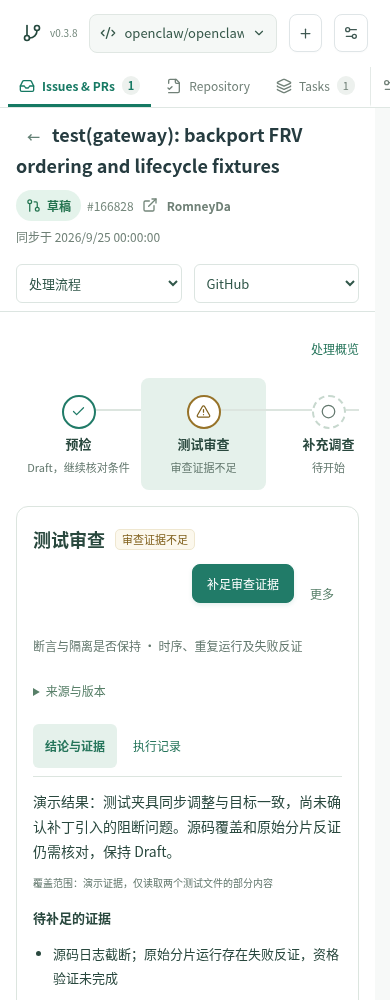
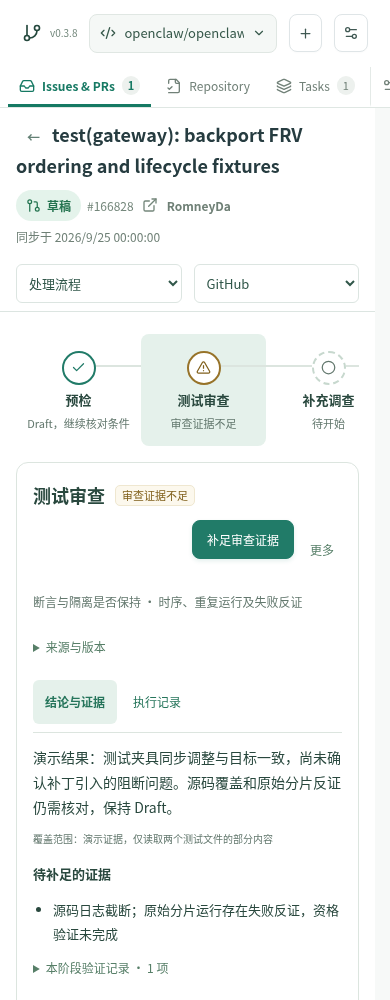
fix: replace standalone overview with stage evidence

diff --git a/src/client/App.tsx b/src/client/App.tsx
@@ -1678,6 +1678,7 @@ export function App({
         audit={state?.audit}
         render={renderStage}
         track={renderTrack}
+        evidence={renderLinkedEvidence}
         actions={renderWorkflowActions}
       />
     );
@@ -1715,103 +1716,6 @@ export function App({
     const job = selectedJob;
     if (!displayedIssue) return null;
     const history = jobs.filter((j) => j.issueId === displayedIssue.id);
-    if (stage === "overview") {
-      const saved =
-        job?.result ?? (readOnly ? undefined : displayedIssue.analysis);
-      const active =
-        !readOnly &&
-        history.find((j) => ["queued", "running"].includes(j.status));
-      return (
-        <section className="mw-item-overview">
-          {!readOnly && (
-            <ProcessingInput
-              issue={displayedIssue}
-              busy={!!busy}
-              act={(path, data, message) =>
-                action("workflow", path, data, message)
-              }
-            />
-          )}
-          <h3>
-            {active
-              ? `${kindNames[active.kind]}中`
-              : saved
-                ? "当前结论"
-                : "尚未分析"}
-          </h3>
-          {saved ? (
-            <>
-              <p>{saved.summary}</p>
-              <div className="mw-tags">
-                <span className="mw-tag">{saved.category}</span>
-                <span className="mw-tag">{saved.priority}</span>
-              </div>
-              {saved.missingInfo.length > 0 && (
-                <details>
-                  <summary>
-                    {displayedIssue.type === "pr" ? "审查覆盖缺口" : "信息缺口"}{" "}
-                    · {saved.missingInfo.length}
-                  </summary>
-                  <ul>
-                    {saved.missingInfo.map((text) => (
-                      <li key={text}>{text}</li>
-                    ))}
-                  </ul>
-                </details>
-              )}
-            </>
-          ) : (
-            <p>选择上方操作开始分析。</p>
-          )}
-          {job?.error && (
-            <p role="alert">
-              {job.status === "waiting_environment"
-                ? "等待环境准备"
-                : "最近一次任务失败"}
-              ：{job.error}。已保存的结论仍可查看。
-            </p>
-          )}
-          {displayedIssue.type === "issue" &&
-            displayedIssue.analysis?.category === "question" && (
-              <button
-                className="mw-text-button"
-                onClick={() =>
-                  setReaderRequest({
-                    sequence: Date.now(),
-                    issueId: displayedIssue.id,
-                    tab: "plan",
-                  })
-                }
-              >
-                调整事项类型
-              </button>
-            )}
-          {job && (
-            <button
-              className="mw-text-button"
-              onClick={() => openEvidenceJob(job.id, "log")}
-            >
-              查看执行记录
-            </button>
-          )}
-          {job && !["triage", "preflight"].includes(job.kind) && (
-            <details className="mw-overview-evidence">
-              <summary>关联验证与交付证据</summary>
-              <ReviewSummary
-                compact
-                job={job}
-                jobs={jobs}
-                issue={displayedIssue}
-                audit={state?.audit ?? []}
-                native={!!state?.capabilities.harness}
-                open={openEvidenceJob}
-                openSession={openSession}
-              />
-            </details>
-          )}
-        </section>
-      );
-    }
     if (stage === "plan")
       return readOnly ? (
         <p>
@@ -1891,6 +1795,12 @@ export function App({
           </details>
           {job ? (
             <>
+              <button
+                className="mw-text-button"
+                onClick={() => openEvidenceJob(job.id, "log")}
+              >
+                查看执行记录
+              </button>
               {job.error && <p role="alert">{job.error}</p>}
               {job.result && <p>{job.result.summary}</p>}
               {job.sessionId && openSession && (
@@ -2035,6 +1945,30 @@ export function App({
     return null;
   }
 
+  function renderLinkedEvidence(selectedJob?: typeof job) {
+    if (
+      !displayedIssue ||
+      !selectedJob ||
+      ["triage", "preflight"].includes(selectedJob.kind)
+    )
+      return null;
+    return (
+      <details className="mw-delivery-evidence">
+        <summary>关联验证与交付证据</summary>
+        <ReviewSummary
+          compact
+          job={selectedJob}
+          jobs={jobs}
+          issue={displayedIssue}
+          audit={state?.audit ?? []}
+          native={!!state?.capabilities.harness}
+          open={openEvidenceJob}
+          openSession={openSession}
+        />
+      </details>
+    );
+  }
+
   function renderTrack(
     selectedJob = job,
     readOnly = false,
@@ -2043,6 +1977,7 @@ export function App({
     if (!displayedIssue) return null;
     return (
       <>
+        {renderLinkedEvidence(selectedJob)}
         {selectedJob &&
           (readOnly
             ? Object.entries(selectedJob.publications ?? {}).map(

diff --git a/src/client/WorkflowDetail.tsx b/src/client/WorkflowDetail.tsx
@@ -24,6 +24,7 @@ interface Props {
     decision?: boolean,
   ) => ReactNode;
   actions: (job?: Job, actions?: ProcessingTimeline["actions"]) => ReactNode;
+  evidence: (job?: Job) => ReactNode;
   track: (job?: Job, readOnly?: boolean, monitoring?: boolean) => ReactNode;
 }
 type Selection = StageSelection;
@@ -60,6 +61,7 @@ export function WorkflowDetail({
   audit = [],
   render,
   actions,
+  evidence,
   track,
 }: Props) {
   const history = jobs.filter((j) => j.issueId === issue.id);
@@ -93,8 +95,9 @@ export function WorkflowDetail({
         localStorage.getItem(`maintainer.stage:${issue.id}:${state.id}`) ??
           "null",
       );
-      if (saved && ["stage", "overview", "plan"].includes(saved.view))
-        return saved;
+      if (saved?.view === "overview")
+        return { view: "stage", detail: "result" };
+      if (saved && ["stage", "plan"].includes(saved.view)) return saved;
     } catch {}
     return {
       view: "stage",
@@ -219,14 +222,6 @@ export function WorkflowDetail({
     <section className="mw-workflow-detail" aria-label="事项处理流程">
       <div className="mw-workflow-toolbar">
         <div className="mw-workflow-views">
-          <button
-            type="button"
-            className="mw-text-button"
-            aria-pressed={selection.view === "overview"}
-            onClick={() => choose({ view: "overview", detail: "result" })}
-          >
-            处理概览
-          </button>
           {issue.type === "issue" && (
             <button
               type="button"
@@ -275,34 +270,33 @@ export function WorkflowDetail({
               当前阶段有更新。查看历史不会改变正在执行的任务。
             </p>
           )}
-          {selection.view === "overview"
-            ? render("overview", currentJob, timeline.historical)
-            : selection.view === "plan"
-              ? render("plan", currentJob, timeline.historical)
-              : selected && (
-                  <StagePanel
-                    selected={selected}
-                    timeline={timeline}
-                    issue={issue}
-                    attempt={attempt}
-                    currentJob={currentJob}
-                    history={history}
-                    readOnly={readOnly}
-                    viewingHistory={viewingHistory}
-                    selection={selection}
-                    choose={choose}
-                    render={render}
-                    track={track}
-                    progress={progress}
-                    actions={
-                      !timeline.historical &&
-                      selected.id === timeline.currentNodeId &&
-                      (!readOnly || selected.result === "输入已更新")
-                        ? actions(currentJob, timeline.actions)
-                        : undefined
-                    }
-                  />
-                )}
+          {selection.view === "plan"
+            ? render("plan", currentJob, timeline.historical)
+            : selected && (
+                <StagePanel
+                  selected={selected}
+                  timeline={timeline}
+                  issue={issue}
+                  attempt={attempt}
+                  currentJob={currentJob}
+                  history={history}
+                  readOnly={readOnly}
+                  viewingHistory={viewingHistory}
+                  selection={selection}
+                  choose={choose}
+                  render={render}
+                  track={track}
+                  evidence={evidence}
+                  progress={progress}
+                  actions={
+                    !timeline.historical &&
+                    selected.id === timeline.currentNodeId &&
+                    (!readOnly || selected.result === "输入已更新")
+                      ? actions(currentJob, timeline.actions)
+                      : undefined
+                  }
+                />
+              )}
           <details className="mw-stage-activity">
             <summary>阶段活动记录 · {timeline.eventTotal}</summary>
             <p className="mw-muted">

diff --git a/src/client/StagePanel.tsx b/src/client/StagePanel.tsx
@@ -7,7 +7,7 @@ import type { AgentTab } from "./RepositoryDetail.tsx";
 export type StageSelection = {
   nodeId?: string;
   attemptId?: string;
-  view: "stage" | "overview" | "plan";
+  view: "stage" | "plan";
   detail: "result" | "execution";
 };
 interface Props {
@@ -28,6 +28,7 @@ interface Props {
     decision?: boolean,
   ) => ReactNode;
   track: (job?: Job, readOnly?: boolean, monitoring?: boolean) => ReactNode;
+  evidence?: (job?: Job) => ReactNode;
   progress?: string;
   actions?: ReactNode;
 }
@@ -44,6 +45,7 @@ export function StagePanel({
   choose,
   render,
   track,
+  evidence,
   progress,
   actions,
 }: Props) {
@@ -211,6 +213,10 @@ export function StagePanel({
           readOnly,
         )
       )}
+      {selected.stage === "decision" &&
+        selected.id === timeline.currentNodeId &&
+        attempt &&
+        evidence?.(attempt)}
       {!viewingHistory && (
         <aside className="mw-stage-next" aria-label="当前处理与下一步">
           <div>

diff --git a/docs/VALIDATION.md b/docs/VALIDATION.md
@@ -190,3 +190,5 @@ REGRESSION_PASSED
 截图使用公开 PR 标题与明确标记为“演示”的合成分析，不是对真实 PR 的新审查结论：[浅色当前阶段](evidence/workflow-timeline-2026-10-09/timeline-light-1440.png)、[查看历史](evidence/workflow-timeline-2026-10-09/timeline-history-1440.png)、[深色执行中](evidence/workflow-timeline-2026-10-09/timeline-dark-running-1440.png)、[手机](evidence/workflow-timeline-2026-10-09/timeline-light-390.png)。无付费模型调用、外部 GitHub 写入或新增原生 Harness 端到端验证。
 
 同日界面精简：移除进度条上方的分类、初步判断、源码模块路径与分类依据说明，保留概览、计划和周期操作。严格类型检查、构建与阶段浏览器夹具（1440px / 390px）通过；截图更新为精简后的界面，当前源文件指纹见验收摘要的 `uiCleanup`，此前 304 项测试与完整维护/导航验收对应 `bf58bf6`。
+
+同日移除“处理概览”入口与原汇总面板；旧概览选择自动迁移到当前阶段，关联验证与交付证据放在确认和交付阶段按需展开。执行记录链接在阶段的执行视图中保留。`npm run check`（304 项测试）与阶段、维护、导航三组浏览器夹具（1440px / 390px）通过；阶段夹具额外验证旧概览选择迁移与确认阶段证据入口。截图和源文件指纹更新至验收摘要的 `overviewRemoval`。
